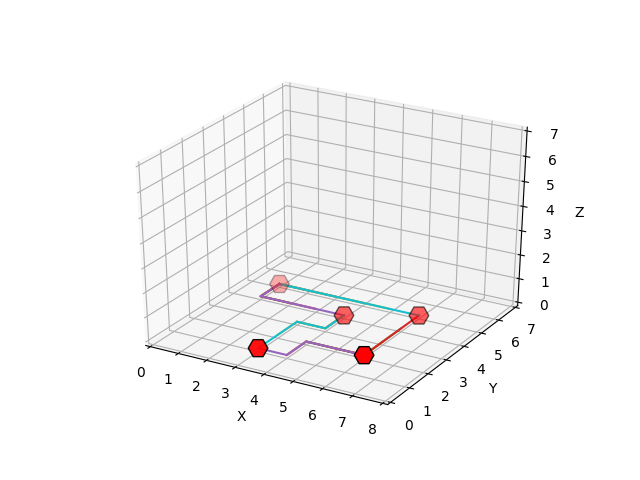
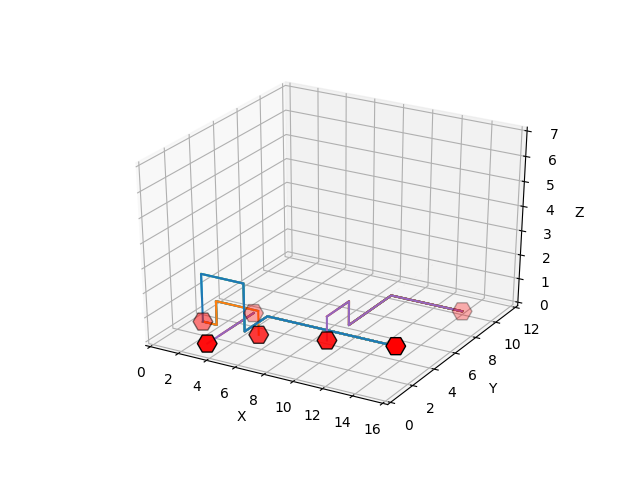
astar

diff --git a/main.py b/main.py
@@ -27,14 +27,14 @@ if __name__ == '__main__':
 			req_chip = 'chip_2'
 			break
 		elif req_chip.lower() == 'test':
-			chip_path = 'data/test/print.csv'
+			chip_path = 'data/test/print_1.csv'
 			req_chip = 'test'
 			break
 		else:
 			print("That chip does not exist.")
 
 	# create a Chip object for the chosen chip
-	chip = chip.Chip(chip_path)
+	chipinit = chip.Chip(chip_path)
 
 	# let user choose a netlist
 	while True:
@@ -46,7 +46,7 @@ if __name__ == '__main__':
 			print("That is not an option.")
 
 	# create a Netlist object for the chosen chip and netlist combination
-	netlist = netlist.Netlist(netlist_path, chip.gates)
+	netlist = netlist.Netlist(netlist_path, chipinit.gates)
 
 	# let user choose an algorithm
 	while True:
@@ -58,12 +58,14 @@ if __name__ == '__main__':
 
 	loopcount = 0
 	while True:
-		if loopcount > 100000:
+		if loopcount > 5000:
 			break
 		loopcount += 1
 
+		chiploop = chip.Chip(chip_path)
+
 		# generate a solution
-		wires = wiring.Wiring(netlist, chip, alg_req)
+		wires = wiring.Wiring(netlist, chiploop, alg_req)
 
 		if wires.wire == None:
 			print("This algorithm can not find a solution for this problem.")
@@ -73,11 +75,11 @@ if __name__ == '__main__':
 			cost = wires.cost(wires.wire)
 			print(f"The cost of this solution is {cost}")
 			# get the dimensions for the visual representation
-			x_dim = chip.get_x_dimension(chip.gates)
-			y_dim = chip.get_y_dimension(chip.gates)
+			x_dim = chiploop.get_x_dimension(chiploop.gates)
+			y_dim = chiploop.get_y_dimension(chiploop.gates)
 
 			# create visual representation of the solved chip
-			visualise = matplot.visualise(chip.gates, wires.wire, x_dim, y_dim)
+			visualise = matplot.visualise(chiploop.gates, wires.wire, x_dim, y_dim)
 			break
 
 		print()

diff --git a/code/classes/chip.py b/code/classes/chip.py
@@ -14,7 +14,7 @@ import csv
 class Chip(object):
 	""" This class creates a grid with gates. """
 
-	def __init__(self, chip_file):		
+	def __init__(self, chip_file):
 		self.gates = self.create_gates(chip_file)
 		self.grid = self.create_grid(self.gates)
 

diff --git a/code/algorithms/straight_random.py b/code/algorithms/straight_random.py
@@ -85,4 +85,5 @@ def straight_random_wire(net_cor, chip):
 					chip.grid[current_cor[0]][current_cor[1]][current_cor[2]] = True
 					wire.append(tuple(current_cor))
 
+
 	return output_dict
